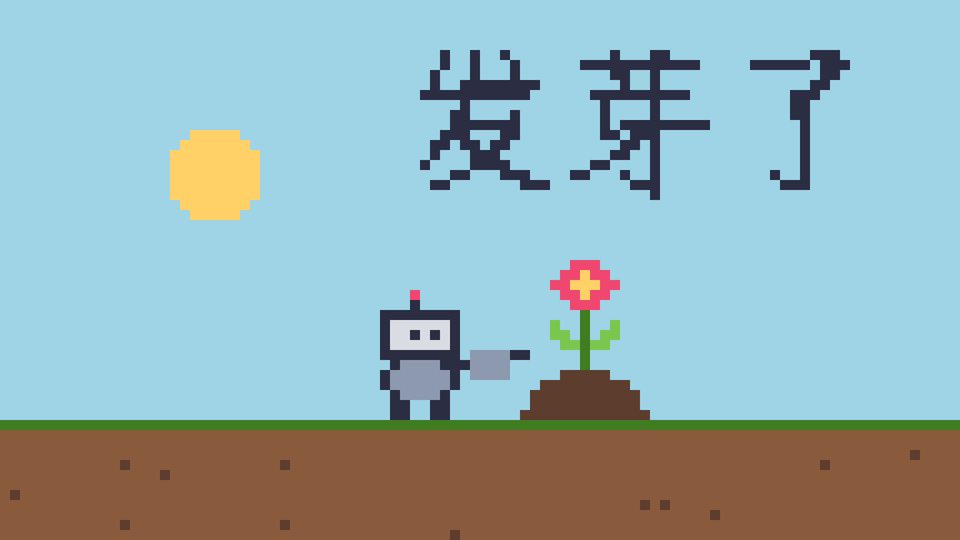
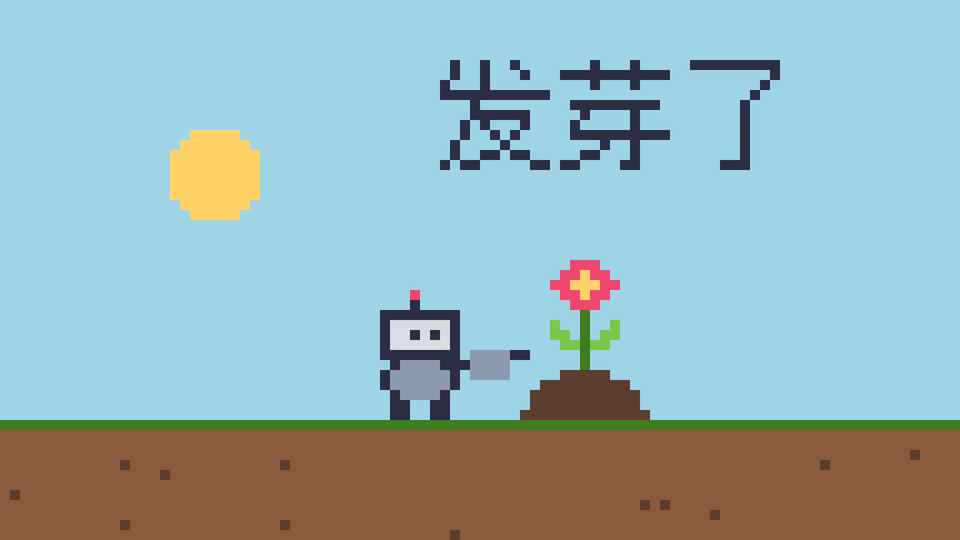
feat(examples): pixel-sprout 的标题换成像素字体

Changed region(s): [[0.4375, 0.0889, 0.9062, 0.3852]]

diff --git a/examples/pixel-sprout/index.html b/examples/pixel-sprout/index.html
@@ -189,7 +189,7 @@ composition({
     drawCan(robotX + 5, GROUND - 7 - lift, watering, t);
     // The title on the grid, a character at a time as its cue comes in.
     const shown = Math.ceil(3 * cueProgress(tl, time, 'grew'));
-    if (shown > 0) g.text('发芽了'.slice(0, shown), 40, 4, C.ink, { id: 'grew' });
+    if (shown > 0) g.text('发芽了'.slice(0, shown), 44, 6, C.ink, { id: 'grew' });
     g.present(ctx);
   },
 });
